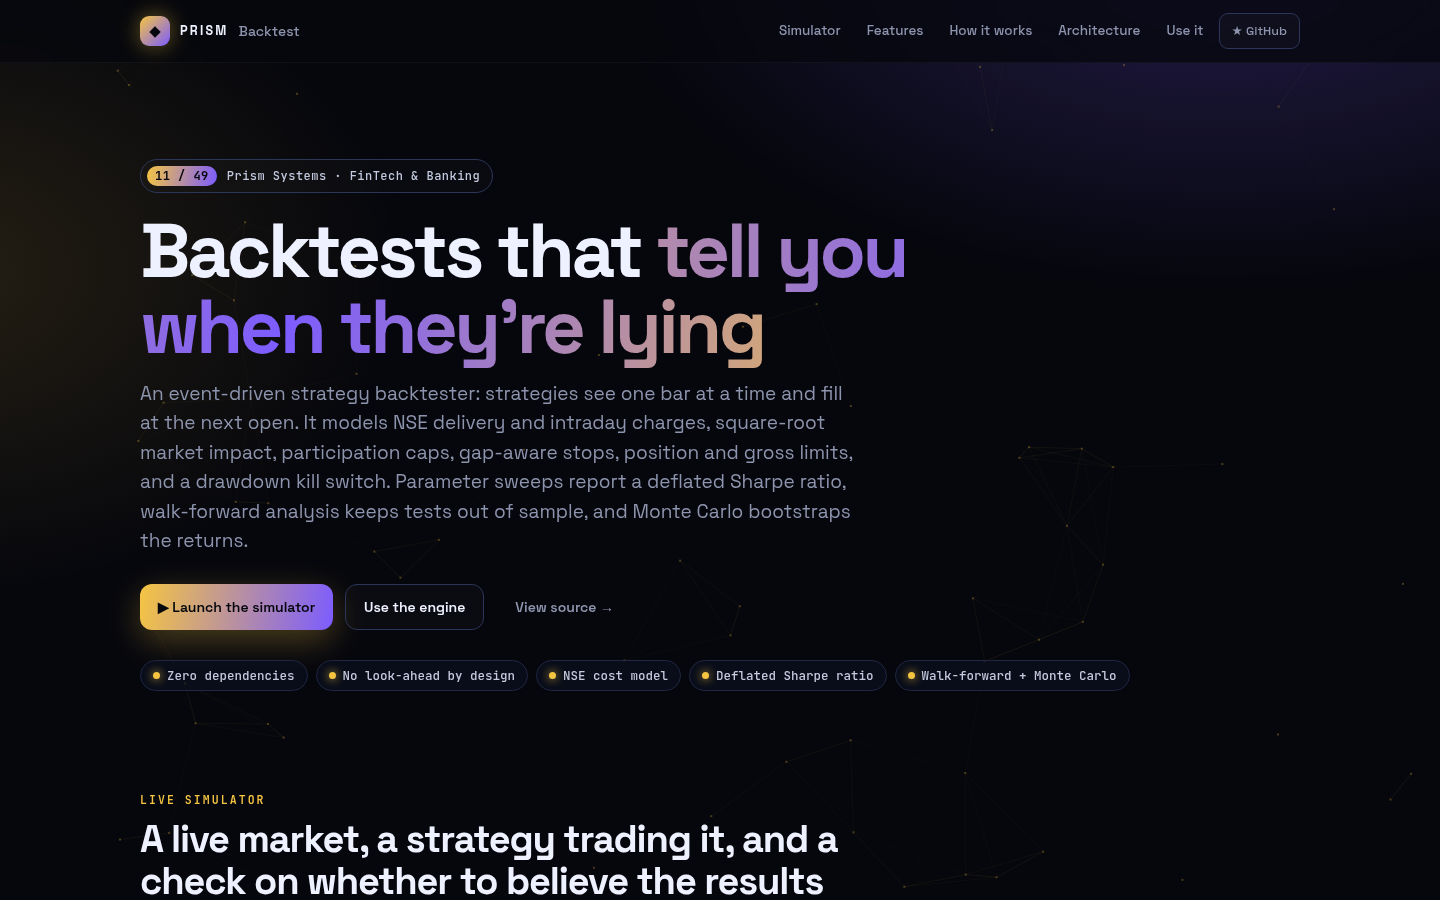
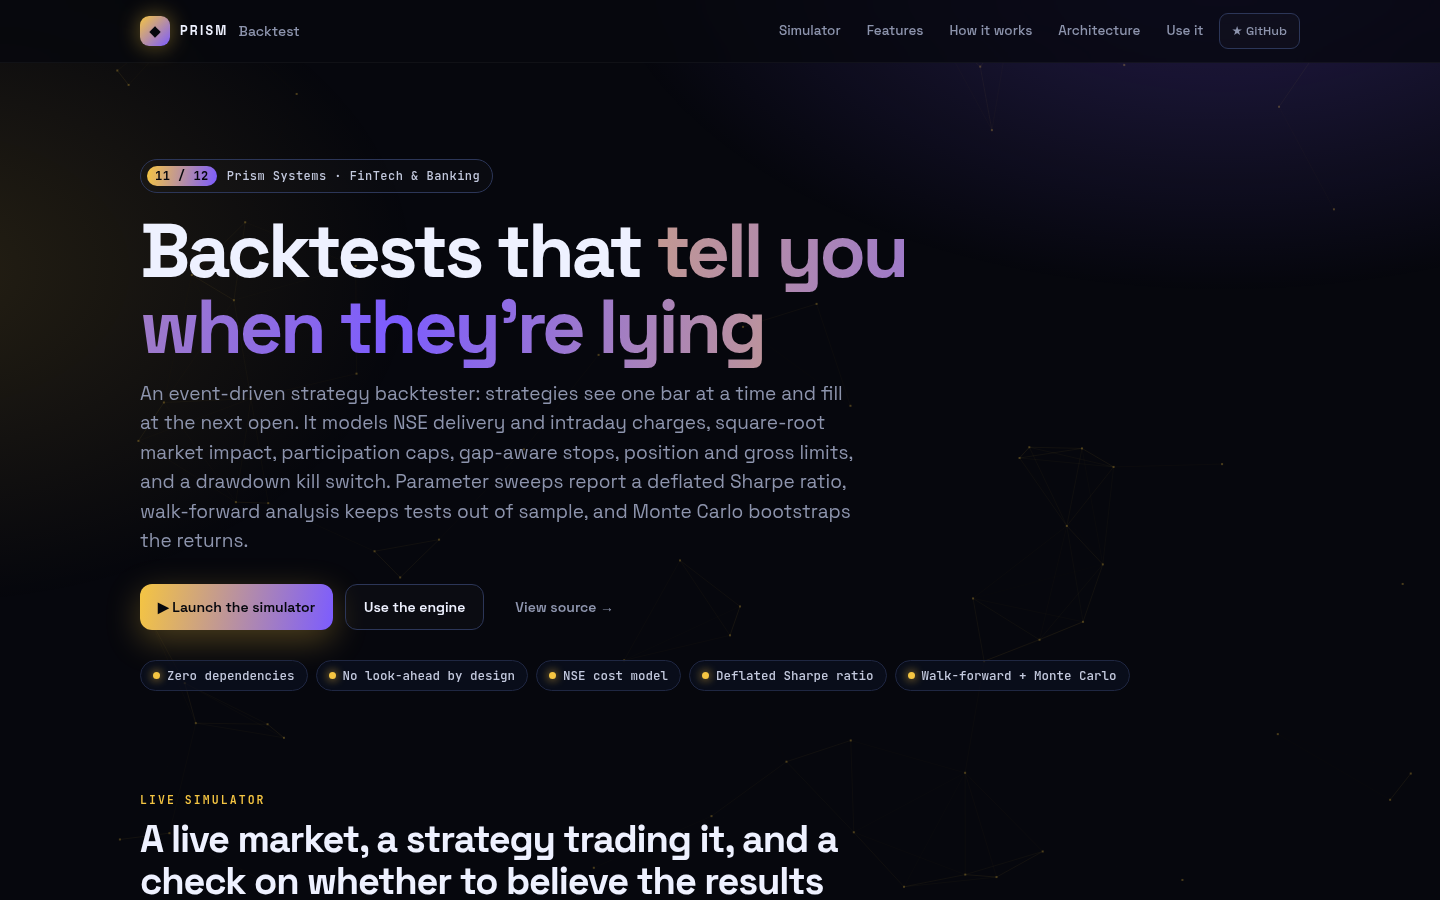
chore: polish branding, Prism Systems series of 12

Changed region(s): [[0.25, 0.3422, 0.5312, 0.4044]]

diff --git a/index.html b/index.html
@@ -28,7 +28,7 @@
   </div></header>
   <main>
     <section class="hero wrap">
-      <p class="eyebrow"><span class="n">11 / 49</span>Prism Systems · FinTech &amp; Banking</p>
+      <p class="eyebrow"><span class="n">11 / 12</span>Prism Systems · FinTech &amp; Banking</p>
       <h1>Backtests that <em>tell you when they're lying</em></h1>
       <p class="lead">An event-driven strategy backtester: strategies see one bar at a time and fill at the next open. It models NSE delivery and intraday charges, square-root market impact, participation caps, gap-aware stops, position and gross limits, and a drawdown kill switch. Parameter sweeps report a deflated Sharpe ratio, walk-forward analysis keeps tests out of sample, and Monte Carlo bootstraps the returns.</p>
       <div class="cta"><a class="btn primary" href="#sim">▶ Launch the simulator</a><a class="btn" href="#use">Use the engine</a><a class="btn ghost" href="https://github.com/krishyaa06/prism-backtest" target="_blank" rel="noreferrer">View source →</a></div>
@@ -149,7 +149,7 @@ mc.final[<span class="tk-n">0.05</span>]; mc.maxDD[<span class="tk-n">0.95</span
     </section>
   </main>
   <footer class="foot"><div class="wrap">
-    <span>◆ Prism Backtest · Prism Systems 11/49 · Built by <a href="https://github.com/krishyaa06">Soumya Bhandare</a> &amp; <a href="https://dc.gg/prismprotocol" target="_blank" rel="noreferrer">Prism Protocol</a></span>
+    <span>◆ Prism Backtest · Prism Systems 11/12 · Built by <a href="https://github.com/krishyaa06">Soumya Bhandare</a> &amp; <a href="https://dc.gg/prismprotocol" target="_blank" rel="noreferrer">Prism Protocol</a></span>
     <span><a href="https://github.com/krishyaa06/prism-backtest" target="_blank" rel="noreferrer">Source</a> · <a href="https://github.com/krishyaa06/prism-backtest/blob/main/docs/ARCHITECTURE.md">Architecture</a> · <a href="https://github.com/krishyaa06/prism-backtest/blob/main/docs/USAGE.md">Docs</a> · MIT License</span>
   </div></footer>
   <script type="module" src="js/app.js"></script>

diff --git a/README.md b/README.md
@@ -1,4 +1,4 @@
-<!-- Prism Systems 11/49 -->
+<!-- Prism Systems 11/12 -->
 <p align="center">
   <img src="https://capsule-render.vercel.app/api?type=waving&color=0:06070d,55:F5C542,100:7C5CFF&height=210&section=header&text=Prism%20Backtest&fontSize=50&fontColor=ffffff&animation=fadeIn&fontAlignY=35&desc=Event-driven%20backtesting%20with%20Indian%20costs%2C%20risk%20controls%20and%20overfitting%20checks&descAlignY=57&descSize=17" width="100%" alt="Prism Backtest" />
 </p>
@@ -12,7 +12,7 @@
   <a href="https://krishyaa06.github.io/prism-backtest/"><img src="https://img.shields.io/badge/Live_Simulator-Open-F5C542?style=for-the-badge&logo=githubpages&logoColor=black" alt="Live simulator" /></a>
   <img src="https://img.shields.io/badge/Node.js-%E2%89%A518.17-339933?style=for-the-badge&logo=nodedotjs&logoColor=white" alt="Node.js 18+" />
   <img src="https://img.shields.io/badge/dependencies-0-7C5CFF?style=for-the-badge" alt="Zero dependencies" />
-  <img src="https://img.shields.io/badge/Prism_Systems-11%2F49-111827?style=for-the-badge" alt="Prism Systems 11/49" />
+  <img src="https://img.shields.io/badge/Prism_Systems-11%2F12-111827?style=for-the-badge" alt="Prism Systems 11/12" />
   <a href="LICENSE"><img src="https://img.shields.io/github/license/krishyaa06/prism-backtest?style=for-the-badge&color=7C5CFF" alt="MIT License" /></a>
 </p>
 
@@ -259,7 +259,7 @@ The test suite uses the built-in `node:test` runner, so there is nothing to inst
 
 ## 🔷 Part of Prism Systems
 
-**Prism Backtest** is system **11 of 49** in **Prism Systems**, a series of open-source reference implementations of large-scale infrastructure by [Prism Protocol](https://dc.gg/prismprotocol). Each one ships a real engine, a CLI and a live simulator, all with zero dependencies.
+**Prism Backtest** is system **11 of 12** in **Prism Systems**, a series of open-source reference implementations of large-scale infrastructure by [Prism Protocol](https://dc.gg/prismprotocol). Each one ships a real engine, a CLI and a live simulator, all with zero dependencies.
 
 ## 👤 Author
 
